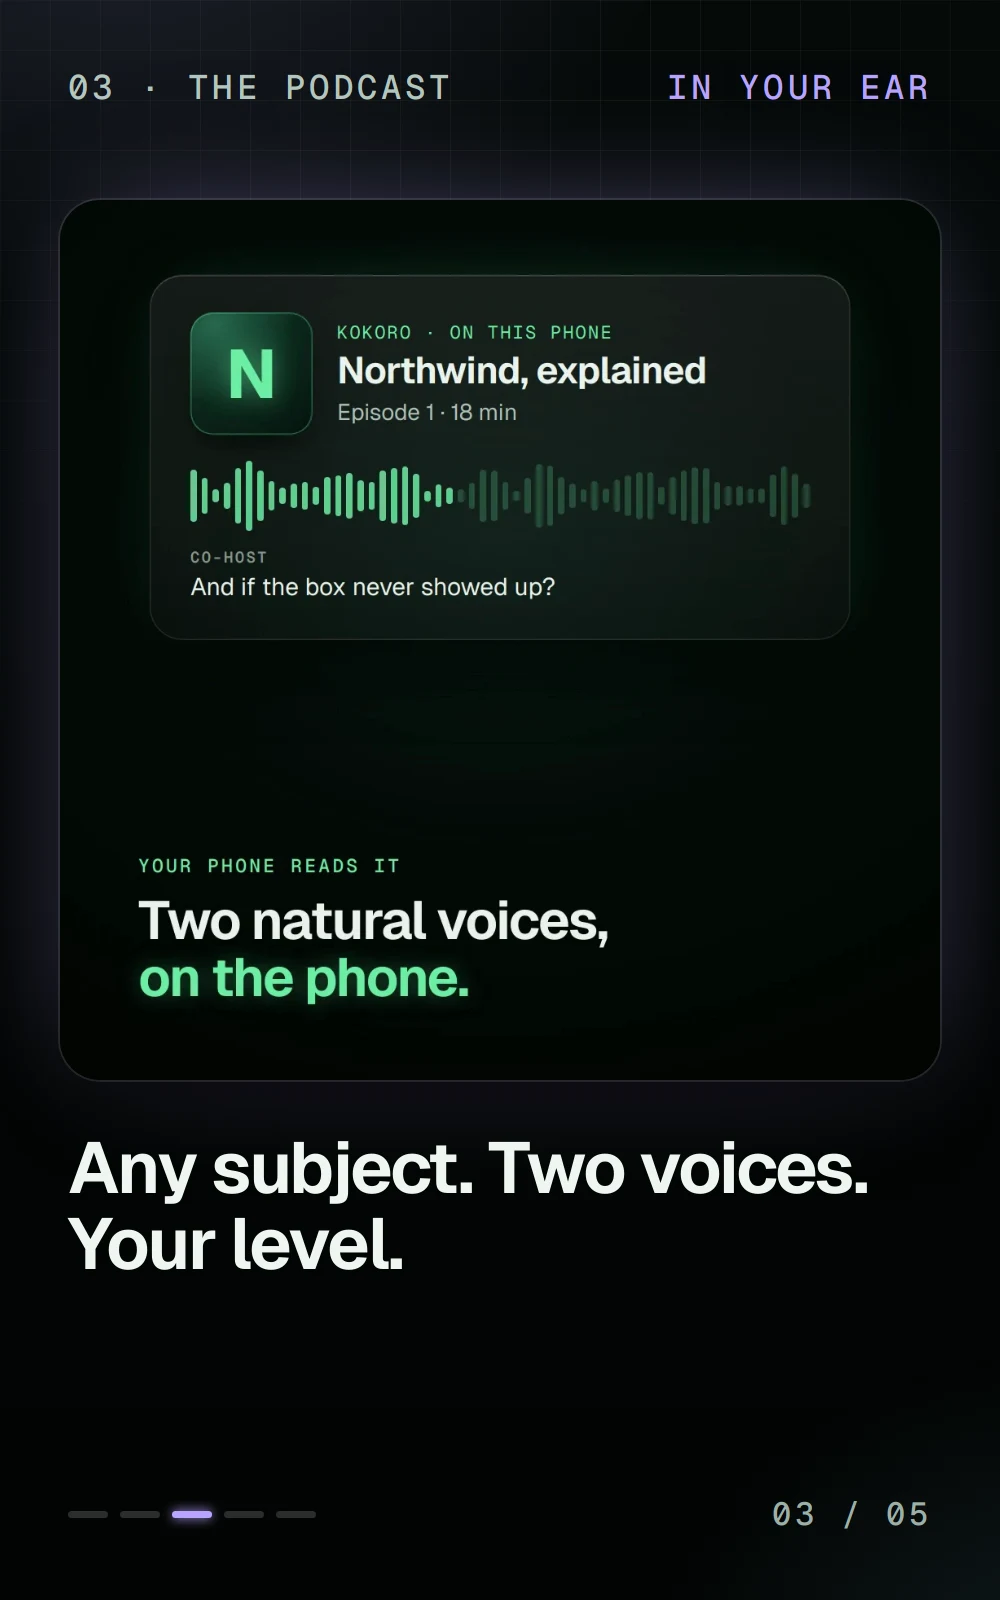
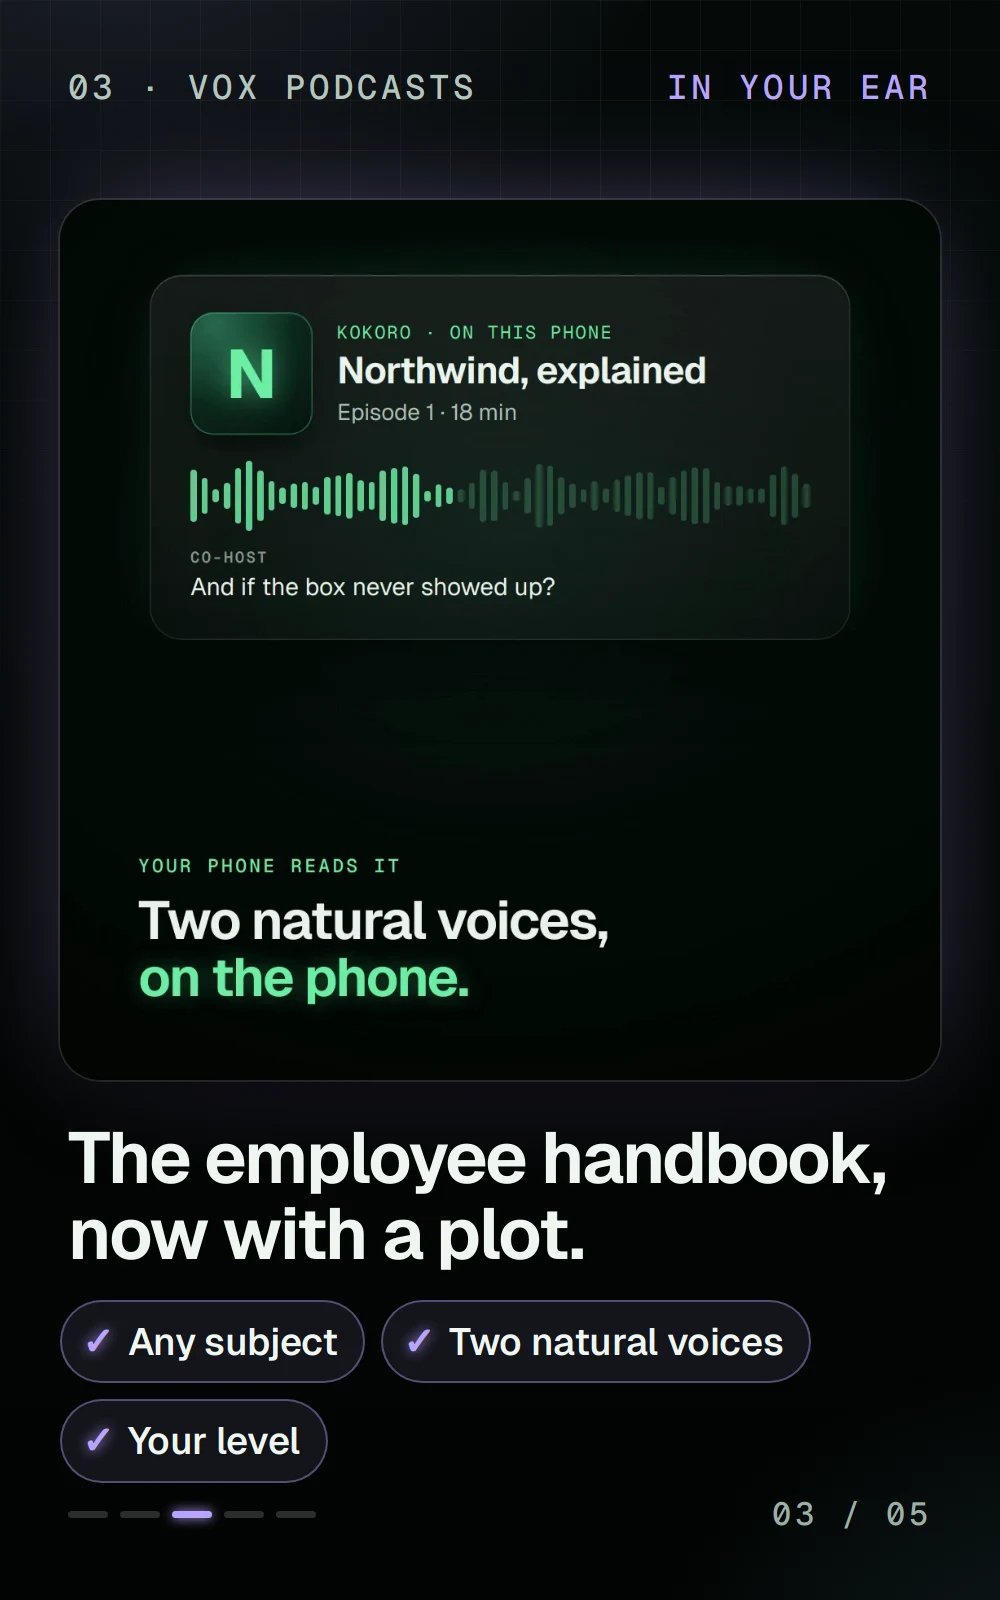
Cards say what each tool is: clear titles, a pitch and selling points

Changed region(s): [[0.062, 0.6875, 0.899, 0.9375], [0.186, 0.0312, 0.248, 0.0625], [0.434, 0.0312, 0.465, 0.0625]]

diff --git a/tools/render/book-screens.html b/tools/render/book-screens.html
@@ -127,7 +127,14 @@ h1 em { font-style: normal; background: linear-gradient(90deg, var(--a), var(--b
 .media .frame { position: absolute; left: 60px; top: 200px; width: 880px; height: 880px; border-radius: 40px; overflow: hidden;
   box-shadow: 0 0 0 2px rgba(255,255,255,.1), 0 40px 80px -30px #000, 0 0 120px -40px color-mix(in srgb, var(--a) 60%, transparent); }
 .media .frame img { display: block; width: 100%; height: 100%; object-fit: cover; }
-.media .cap { position: absolute; left: 68px; right: 68px; top: 1130px; margin: 0; font-size: 72px; line-height: 1.06; font-weight: 650; letter-spacing: -.03em; }
+.media .cap { position: absolute; left: 68px; right: 68px; top: 1120px; margin: 0; font-size: 72px; line-height: 1.06; font-weight: 650; letter-spacing: -.03em; }
+.media .points { position: absolute; left: 60px; right: 60px; top: 1300px; display: flex; flex-wrap: wrap; gap: 16px; margin: 0; padding: 0; list-style: none; }
+.media .points li { display: flex; align-items: center; gap: 14px; padding: 14px 26px 14px 20px; border-radius: 99px; border: 2px solid color-mix(in srgb, var(--a) 40%, transparent);
+  background: color-mix(in srgb, var(--a) 9%, transparent); font-size: 38px; font-weight: 560; letter-spacing: -.01em; color: #eef6f1; }
+.media .points li::before { content: "✓"; font-weight: 700; color: var(--a); text-shadow: 0 0 14px var(--a); }
+.pitch { margin: 0; font-size: 46px; line-height: 1.3; color: #cddcd5; letter-spacing: -.01em; }
+.pitch b { color: #fff; font-weight: 600; }
+.title { display: grid; gap: 30px; }
 .media .foot { position: absolute; left: 68px; right: 68px; bottom: 70px; display: flex; justify-content: space-between; align-items: center; font: 500 32px/1 "Geist Mono", monospace; letter-spacing: .12em; color: #9cb0a7; }
 .foot-line { display: flex; align-items: center; gap: 26px; font-size: 28px; letter-spacing: .14em; color: #9cb0a7; }
 .foot-line i { flex: 1; height: 4px; border-radius: 4px; background: linear-gradient(90deg, var(--a), transparent); box-shadow: 0 0 18px var(--a); }
@@ -167,24 +174,27 @@ h1 em { font-style: normal; background: linear-gradient(90deg, var(--a), var(--b
 <section class="screen media" id="media-0" style="--a:#6ff0a6;--b:#7fd6ff">
   <div class="bar"><span>01 · Vox Amelior</span><span class="live"><i></i>Film · 0:24</span></div>
   <div class="frame"><img src="book-stills/vox.webp" alt=""></div>
-  <p class="cap">Remembers what you hear. Keeps it on your phone.</p>
+  <p class="cap">Forget nothing. Share nothing.</p>
+  <ul class="points"><li>Live transcription</li><li>Who said what</li><li>100% on your phone</li></ul>
   <div class="foot"><span class="dots"><i class="on"></i><i></i><i></i><i></i><i></i></span><span>01 / 05</span></div>
 </section>
 
 <section class="screen ui" id="ui-0" style="--a:#6ff0a6;--b:#7fd6ff">
-  <div class="bar"><span>Vox Amelior</span><span class="live"><i></i>On your phone</span></div>
-  <h1>Forget nothing.<br><em>Share nothing.</em></h1>
+  <div class="bar"><span>01 · Vox Amelior</span><span class="live"><i></i>On your phone</span></div>
+  <div class="title">
+    <h1 style="font-size:112px">Transcription &amp;<br><em>memory suite.</em></h1>
+    <p class="pitch">Writes down what’s said around you, knows <b>who said it</b>, and <b>answers when you ask</b>. Nothing leaves your phone.</p>
+  </div>
   <div class="panel ask">
     <div class="row"><span class="mono dim">YOU ASKED · 18:02</span><span class="tag">Example</span></div>
     <p class="q">“Where did I park this morning?”</p>
     <p class="a"><b>Level 3, row F</b>, by the lift. You said it at 9:41.</p>
     <div class="src mono">0 bytes sent</div>
   </div>
-  <div class="wave" data-wave="30"></div>
   <ol class="stack">
-    <li><b>01</b>Answer<span>Gemma 4</span></li>
-    <li><b>02</b>Find<span>EmbeddingGemma</span></li>
-    <li><b>03</b>Hear<span>Parakeet</span></li>
+    <li><b>01</b>Transcribe<span>Parakeet</span></li>
+    <li><b>02</b>Who said it<span>WeSpeaker</span></li>
+    <li><b>03</b>Answer<span>Gemma 4</span></li>
   </ol>
 </section>
 
@@ -192,36 +202,43 @@ h1 em { font-style: normal; background: linear-gradient(90deg, var(--a), var(--b
 <section class="screen media" id="media-1" style="--a:#7fd6ff;--b:#6ff0a6">
   <div class="bar"><span>02 · Even G1</span><span class="live"><i></i>On the glasses</span></div>
   <div class="frame"><img src="../../assets/img/g1-desk.webp" alt=""></div>
-  <p class="cap">A whole computer in the lens. AI at the keys.</p>
+  <p class="cap">Your computer, one look away.</p>
+  <ul class="points"><li>Custom firmware</li><li>Linux desktop</li><li>AI at the keys</li></ul>
   <div class="foot"><span class="dots"><i></i><i class="on"></i><i></i><i></i><i></i></span><span>02 / 05</span></div>
 </section>
 
 <section class="screen ui" id="ui-1" style="--a:#7fd6ff;--b:#6ff0a6">
-  <div class="bar"><span>Even G1</span><span class="live"><i></i>Connected</span></div>
-  <h1>Your computer,<br><em>one look away.</em></h1>
+  <div class="bar"><span>02 · Even G1</span><span class="live"><i></i>Connected</span></div>
+  <div class="title">
+    <h1 style="font-size:112px">A computer in<br><em>smart glasses.</em></h1>
+    <p class="pitch">Custom <b>Even G1 firmware</b> puts your terminal and a <b>Linux desktop</b> in the lens. AI builds; you check in.</p>
+  </div>
   <div class="panel term">
     <div class="term__top"><i></i><i></i><i></i><span class="mono">ssh home</span><span class="tag">Example</span></div>
 <pre><span class="ln"><span class="p">~/site $</span> ai</span><span class="ln u">&gt; make the cards flip</span><span class="ln d">● Reading hx.js</span><span class="ln d">● Editing 2 files</span><span class="ln ok">✓ Done. Have a look.</span><span class="ln"><span class="p">~/site $</span> <b class="cur"></b></span></pre>
   </div>
-  <div class="greys" data-greys></div>
-  <div class="mono dim greys-note">16-GREY VIDEO, ON WHEN YOU LOOK UP</div>
   <ol class="stack">
     <li><b>01</b>Firmware<span>reverse-engineered</span></li>
-    <li><b>02</b>Reach<span>SSH + mosh</span></li>
+    <li><b>02</b>Video<span>16 greys, on look-up</span></li>
+    <li><b>03</b>Reach<span>SSH + mosh</span></li>
   </ol>
 </section>
 
 <!-- ── Spread 3: The podcast ── -->
 <section class="screen media" id="media-2" style="--a:#b9a4ff;--b:#7fd6ff">
-  <div class="bar"><span>03 · The podcast</span><span class="live"><i></i>In your ear</span></div>
+  <div class="bar"><span>03 · Vox Podcasts</span><span class="live"><i></i>In your ear</span></div>
   <div class="frame"><img src="book-stills/podcast.webp" alt=""></div>
-  <p class="cap">Any subject. Two voices. Your level.</p>
+  <p class="cap">The employee handbook, now with a plot.</p>
+  <ul class="points"><li>Any subject</li><li>Two natural voices</li><li>Your level</li></ul>
   <div class="foot"><span class="dots"><i></i><i></i><i class="on"></i><i></i><i></i></span><span>03 / 05</span></div>
 </section>
 
 <section class="screen ui" id="ui-2" style="--a:#b9a4ff;--b:#7fd6ff">
-  <div class="bar"><span>The podcast</span><span class="live"><i></i>Now playing</span></div>
-  <h1 style="font-size:110px">The employee handbook, <em>now with a plot.</em></h1>
+  <div class="bar"><span>03 · Vox Podcasts</span><span class="live"><i></i>Now playing</span></div>
+  <div class="title">
+    <h1 style="font-size:112px">Make your own<br><em>podcast.</em></h1>
+    <p class="pitch">Name <b>any subject</b>. AI writes a <b>two-host show</b> at your level, and natural voices read it on your phone.</p>
+  </div>
   <div class="panel art">
     <div class="row"><span class="art__show">Northwind, explained</span><span class="tag">Example</span></div>
     <div class="wave" data-wave="26"></div>
@@ -238,13 +255,17 @@ h1 em { font-style: normal; background: linear-gradient(90deg, var(--a), var(--b
 <section class="screen media" id="media-3" style="--a:#ffc977;--b:#6ff0a6">
   <div class="bar"><span>04 · Vox Learn</span><span class="live"><i></i>In the car</span></div>
   <div class="frame"><img src="book-stills/learn.webp" alt=""></div>
-  <p class="cap">A lesson in your ear. A quiz you answer out loud.</p>
+  <p class="cap">Don’t get it? Ask, right then and there.</p>
+  <ul class="points"><li>Lessons at your level</li><li>Answer out loud</li><li>Points + streaks</li></ul>
   <div class="foot"><span class="dots"><i></i><i></i><i></i><i class="on"></i><i></i></span><span>04 / 05</span></div>
 </section>
 
 <section class="screen ui" id="ui-3" style="--a:#ffc977;--b:#6ff0a6">
-  <div class="bar"><span>Vox Learn</span><span class="live"><i></i>Quiz · 2 of 5</span></div>
-  <h1 style="font-size:112px">Don’t get it? <em>Ask, right then and there.</em></h1>
+  <div class="bar"><span>04 · Vox Learn</span><span class="live"><i></i>Quiz · 2 of 5</span></div>
+  <div class="title">
+    <h1 style="font-size:112px">Learn anything,<br><em>out loud.</em></h1>
+    <p class="pitch">An <b>AI tutor for the drive</b>: lessons in your ear, a <b>quiz you answer by voice</b>, review for what you missed.</p>
+  </div>
   <div class="panel quiz">
     <div class="row"><span class="mono dim">QUESTION 2</span><span class="tag">Example</span></div>
     <p class="q">What’s a chargeback?</p>

diff --git a/index.html b/index.html
@@ -151,9 +151,9 @@
                and the whole show where WebGL can't run. The video is the Vox film's source; it plays on the first
                left-hand screen, never on its own -->
           <div class="hx-book__stage" data-book-stage>
-            <div class="hx-book__figure" role="img" data-book data-screens="assets/img/book/screen-" data-v="43"
+            <div class="hx-book__figure" role="img" data-book data-screens="assets/img/book/screen-" data-v="44"
               data-stills="assets/img/book/f00.webp assets/img/book/f14.webp assets/img/book/f28.webp assets/img/book/f42.webp"
-              aria-label="A book of glass screens on a polished hinge, open at Vox Amelior: its film plays on the left page; the right page reads Forget nothing, share nothing, with an example question and its answer.">
+              aria-label="A book of glass screens on a polished hinge, open at Vox Amelior: its film plays on the left page; the right page reads Transcription and memory suite, with an example question and its answer.">
               <img class="hx-book__still" src="assets/img/book/f00.webp" width="1280" height="880" alt="" data-book-still>
               <canvas class="hx-book__canvas" aria-hidden="true" data-book-canvas></canvas>
               <video class="hx-book__film" muted loop playsinline preload="none" width="1080" height="1080" tabindex="-1" aria-hidden="true"
@@ -179,9 +179,9 @@
 
           <div class="hx-book__copy" data-strip-stage>
             <article class="hx-page" role="group" aria-roledescription="slide" aria-label="1 of 5: Vox Amelior" id="built-1" data-dwell="24"
-              data-alt="A book of glass cards, open at Vox Amelior: on the left, Forget nothing, share nothing, with an example question and its answer; on the right, its film, opening on an example question about your day and its answer.">
+              data-alt="A book of glass cards, open at Vox Amelior: on the left, Transcription and memory suite, with an example question and its answer; on the right, its film, opening on an example question about your day and its answer, under Forget nothing, share nothing.">
               <p class="hx-panel__meta mono">01 · Vox Amelior · Android</p>
-              <h3 class="hx-panel__title">Forget nothing. <em>Share nothing.</em></h3>
+              <h3 class="hx-panel__title">Transcription &amp; <em>memory suite.</em></h3>
               <p class="hx-panel__text">It writes down what’s said around you, learns who said it and answers when you
                 ask, all on your phone. Small models do the daily work, fast, free and private, because the cheapest
                 question is the one that never leaves your pocket.</p>
@@ -195,9 +195,9 @@
             </article>
 
             <article class="hx-page" role="group" aria-roledescription="slide" aria-label="2 of 5: Even G1" id="built-2" hidden
-              data-alt="The book, open at Even G1: on the left, Your computer, one look away, over an example terminal where frontier AI edits two files; on the right, the Even G1 glasses with a Linux desktop in each lens.">
+              data-alt="The book, open at Even G1: on the left, A computer in smart glasses, over an example terminal where frontier AI edits two files; on the right, the Even G1 glasses with a Linux desktop in each lens, under Your computer, one look away.">
               <p class="hx-panel__meta mono">02 · Vox · Kotlin + C++ · Android</p>
-              <h3 class="hx-panel__title">Your computer, <em>one look away.</em></h3>
+              <h3 class="hx-panel__title">A computer in <em>smart glasses.</em></h3>
               <p class="hx-panel__text">The terminal at home, the machine at work, or a whole Linux desktop on the
                 phone alone, in your glasses. Tell frontier AI what to build, then get on with your day; the lenses stay
                 dark until there’s progress to see. You check in. You don’t sit in.</p>
@@ -210,9 +210,9 @@
             </article>
 
             <article class="hx-page" role="group" aria-roledescription="slide" aria-label="3 of 5: The podcast" id="built-3" hidden
-              data-alt="The book, open at the podcast: on the left, The employee handbook, now with a plot, an example player for Northwind, explained, episode 3, with two hosts; on the right, Two natural voices, on the phone, over the example episode playing.">
+              data-alt="The book, open at Vox Podcasts: on the left, Make your own podcast, an example player for Northwind, explained, episode 3, with two hosts; on the right, the example episode playing, under The employee handbook, now with a plot.">
               <p class="hx-panel__meta mono">03 · Vox Podcasts · AI + Kokoro</p>
-              <h3 class="hx-panel__title">The employee handbook, <em>now with a plot.</em></h3>
+              <h3 class="hx-panel__title">Make your own <em>podcast.</em></h3>
               <p class="hx-panel__text">Name a subject, say the company you just joined, and AI writes it as a
                 two-host show: where it came from, the rules it lives by, precisely how it all works. Put it on while
                 AI builds. One AI does the work; the other tells the story.</p>
@@ -225,9 +225,9 @@
             </article>
 
             <article class="hx-page" role="group" aria-roledescription="slide" aria-label="4 of 5: Vox Learn" id="built-4" hidden
-              data-alt="The book, open at Vox Learn: on the left, Don’t get it? Ask, right then and there, an example question, what’s a chargeback?, answered out loud for 40 points; on the right, Any subject, your voice, your level, over example subjects to learn.">
+              data-alt="The book, open at Vox Learn: on the left, Learn anything, out loud, an example question, what’s a chargeback?, answered out loud for 40 points; on the right, example subjects to learn, under Don’t get it? Ask, right then and there.">
               <p class="hx-panel__meta mono">04 · Vox Learn · AI + Parakeet</p>
-              <h3 class="hx-panel__title">Don’t get it? <em>Ask, right then and there.</em></h3>
+              <h3 class="hx-panel__title">Learn anything, <em>out loud.</em></h3>
               <p class="hx-panel__text">Pick a subject. The lessons meet you at your level; the quiz meets you on the
                 drive home, answered out loud. Points and streaks make it a game, and spaced review returns what you
                 were about to forget. A teacher with endless patience and no office hours.</p>
